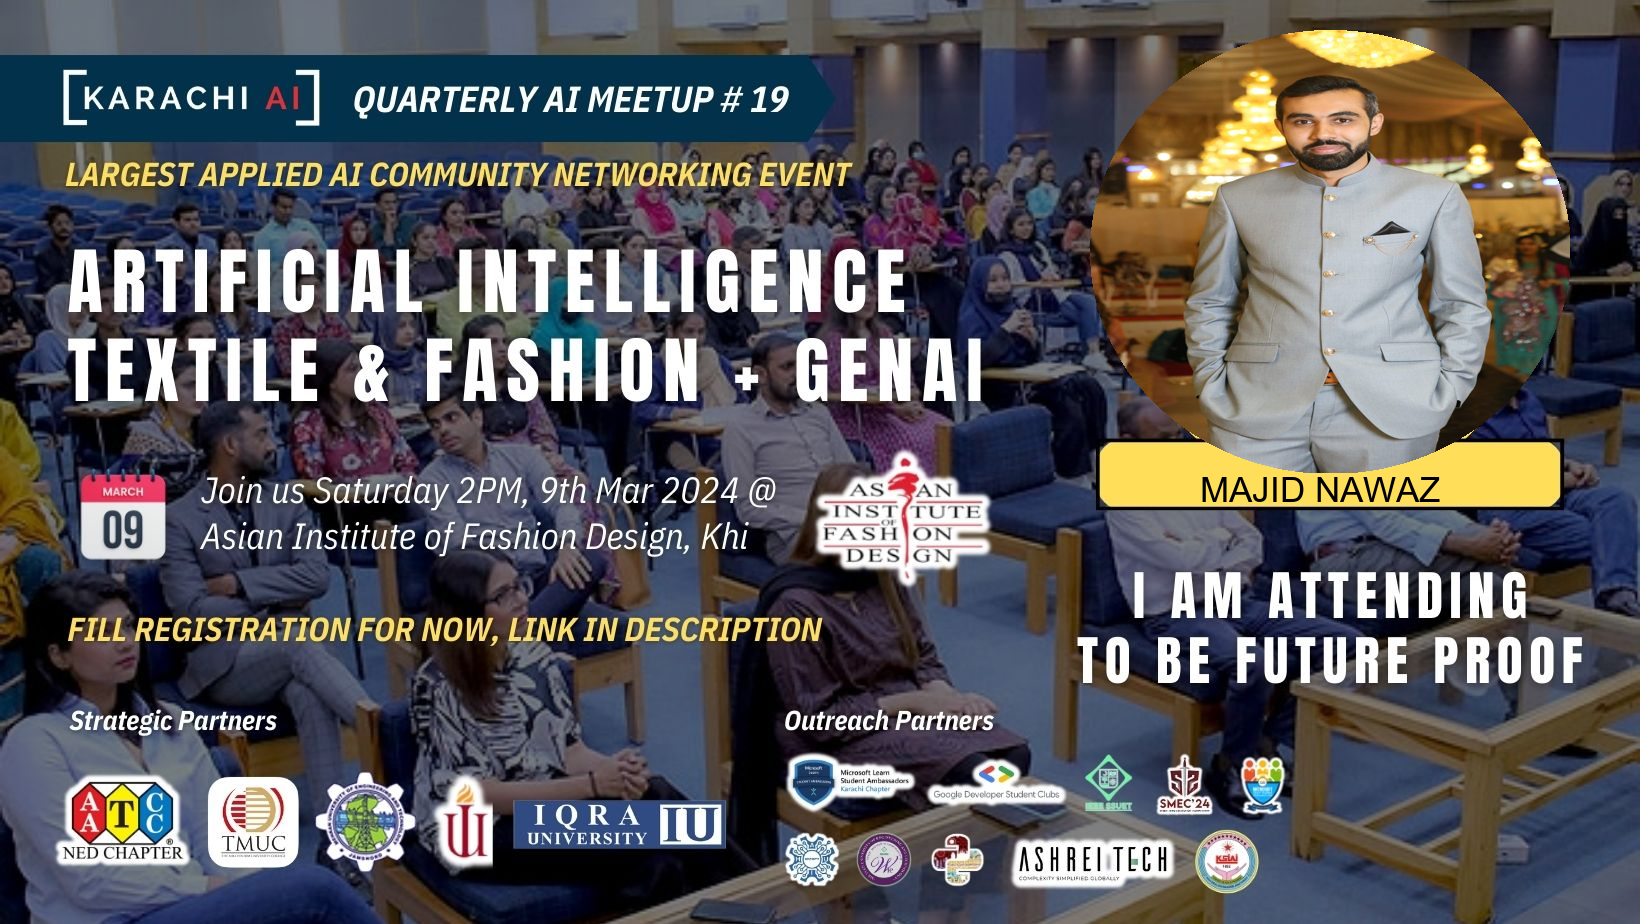
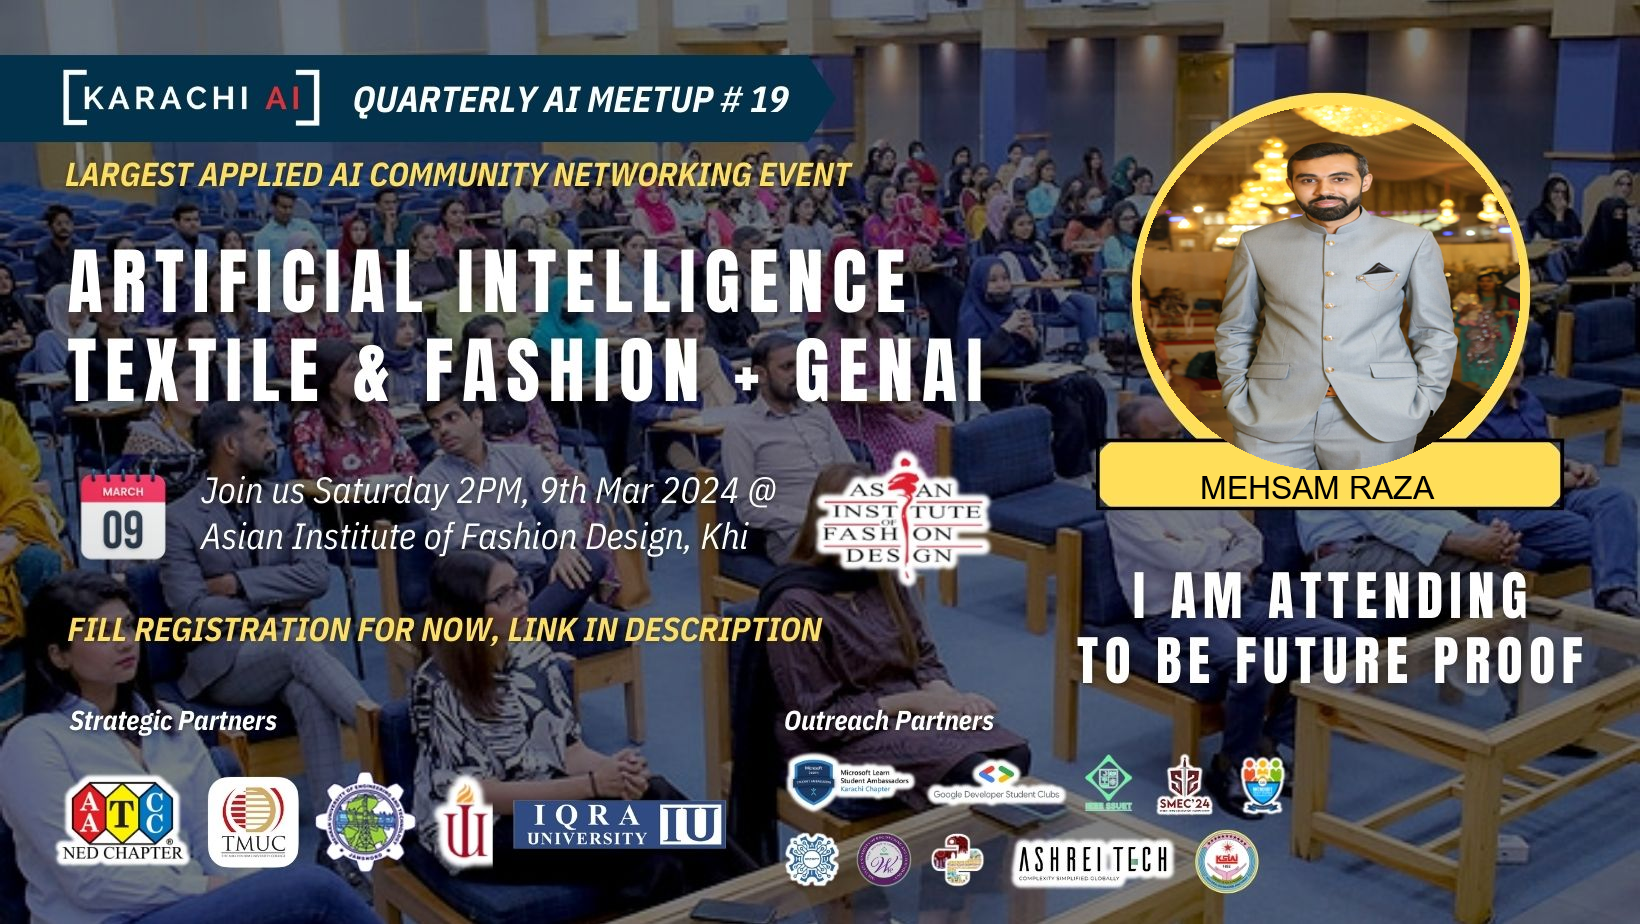
Fourth commit

Changed region(s): [[0.653, 0.0303, 0.964, 0.5455]]

diff --git a/app3_download.py b/app3_download.py
@@ -92,7 +92,7 @@ def add_image_to_certificate(certificate_path, uploaded_image, text, output_path
     uploaded_img = Image.open(uploaded_image)
     
     # Resize the uploaded image
-    uploaded_img = uploaded_img.resize((480, 443))  # Change dimensions as needed
+    uploaded_img = uploaded_img.resize((380, 365))  # Change dimensions as needed
     
     # Create a round mask
     mask = Image.new("L", uploaded_img.size, 0)
@@ -103,7 +103,7 @@ def add_image_to_certificate(certificate_path, uploaded_image, text, output_path
     uploaded_img.putalpha(mask)
     
     # Calculate the position to place the uploaded image
-    position = (1090, 30)  # Change position as needed
+    position = (1140, 105)  # Change position as needed
     
     # Paste the uploaded image onto the certificate image
     certificate_img.paste(uploaded_img, position, uploaded_img)
@@ -112,7 +112,7 @@ def add_image_to_certificate(certificate_path, uploaded_image, text, output_path
     draw = ImageDraw.Draw(certificate_img)
     
     # Custom font style and font size for text
-    font = ImageFont.truetype('arial.ttf', 35)
+    font = ImageFont.truetype('arial.ttf', 32)
     
     # text_position = (1200, 465)
 

diff --git a/round_image.py b/round_image.py
@@ -10,7 +10,7 @@ def add_image_to_certificate(certificate_path, uploaded_image, text, output_path
     uploaded_img = Image.open(uploaded_image)
     
     # Resize the uploaded image
-    uploaded_img = uploaded_img.resize((480, 443))  # Change dimensions as needed
+    uploaded_img = uploaded_img.resize((380, 365))  # Change dimensions as needed
     
     # Create a round mask
     mask = Image.new("L", uploaded_img.size, 0)
@@ -21,7 +21,7 @@ def add_image_to_certificate(certificate_path, uploaded_image, text, output_path
     uploaded_img.putalpha(mask)
     
     # Calculate the position to place the uploaded image
-    position = (1090, 30)  # Change position as needed
+    position = (1140, 105)  # Change position as needed
     
     # Paste the uploaded image onto the certificate image
     certificate_img.paste(uploaded_img, position, uploaded_img)
@@ -30,7 +30,7 @@ def add_image_to_certificate(certificate_path, uploaded_image, text, output_path
     draw = ImageDraw.Draw(certificate_img)
     
     # Custom font style and font size for text
-    font = ImageFont.truetype('arial.ttf', 35)
+    font = ImageFont.truetype('arial.ttf', 32)
     
     # text_position = (1200, 465)
 
